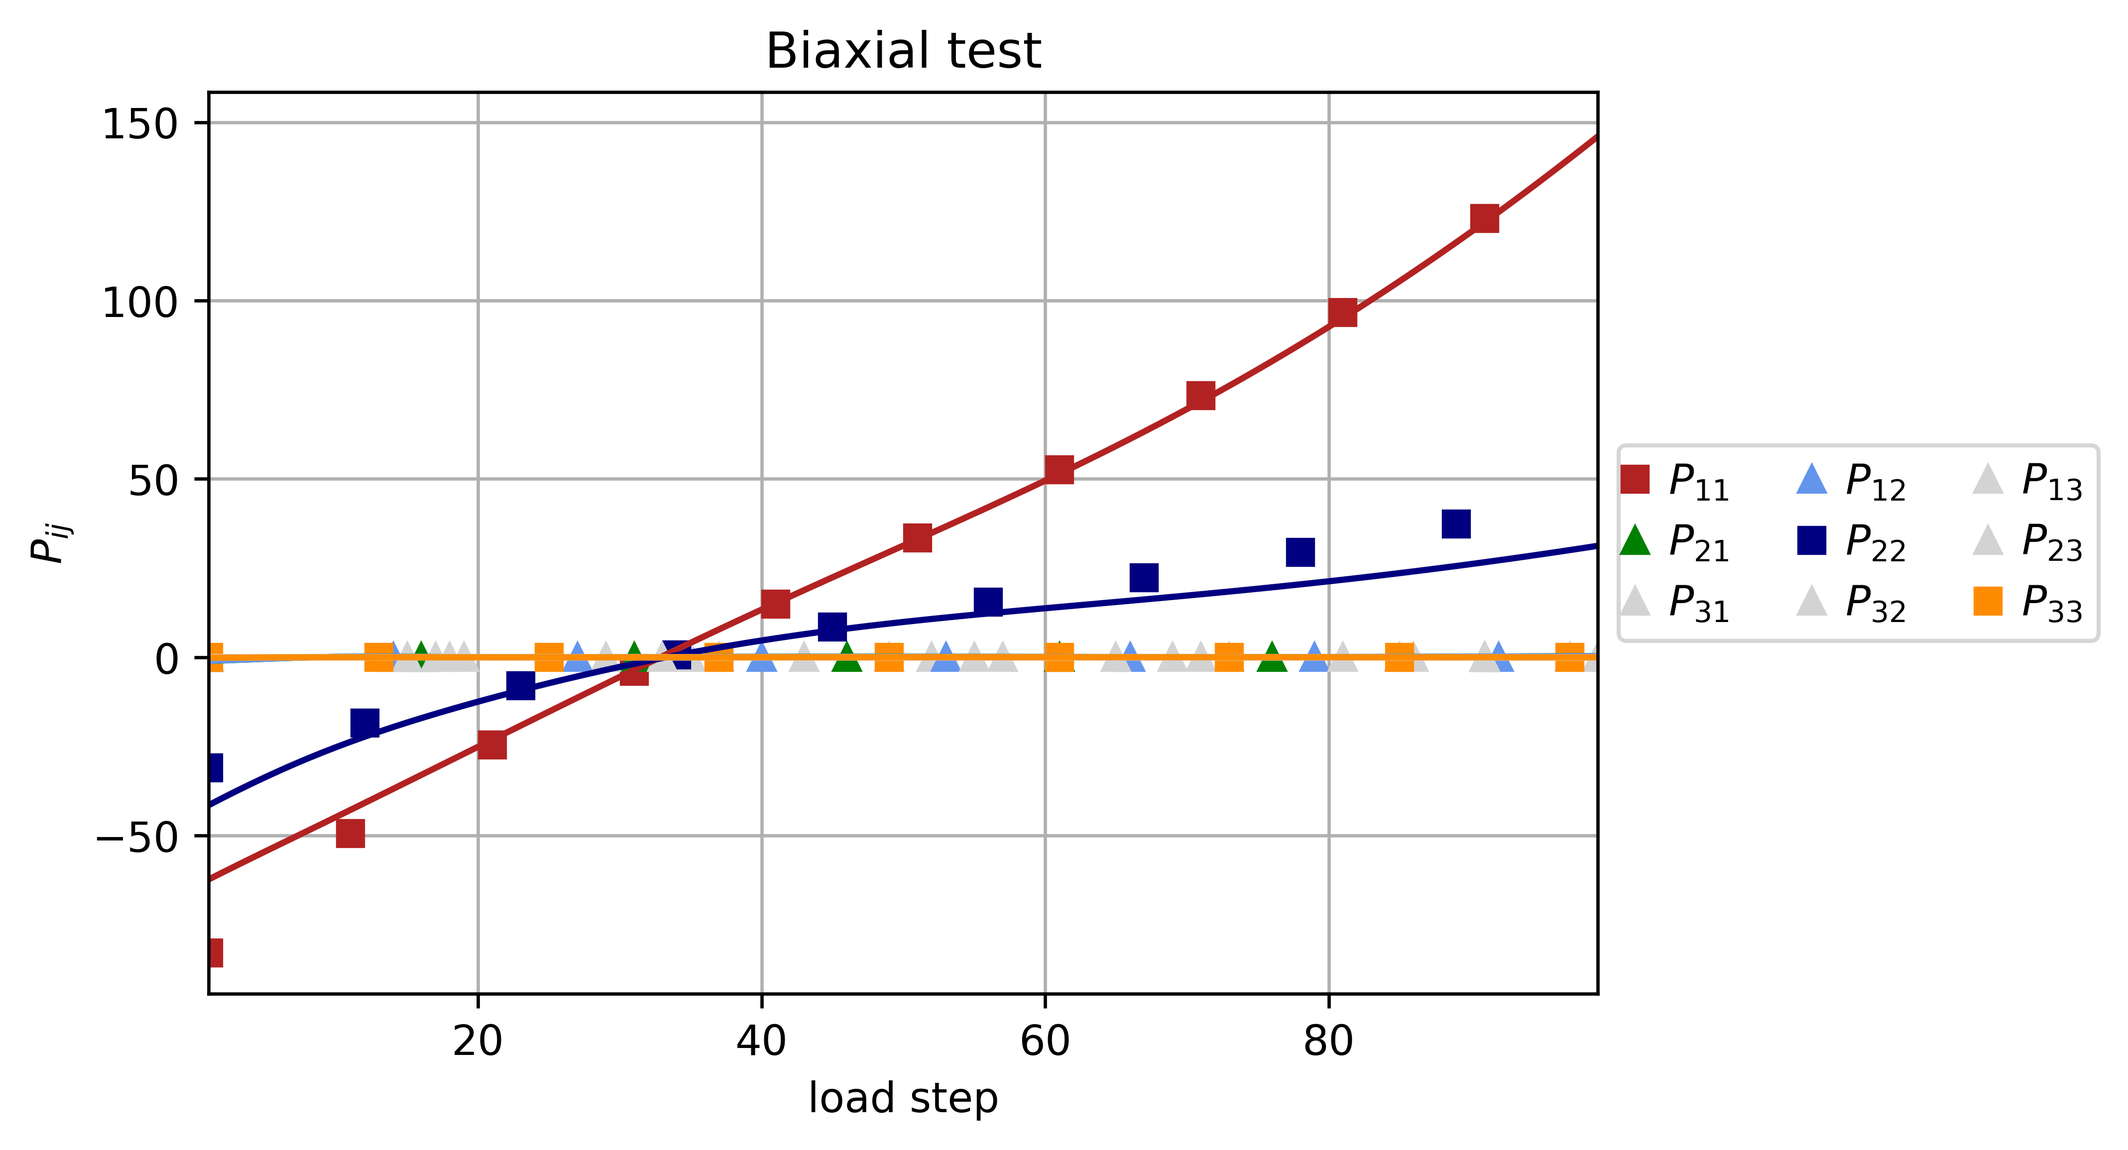
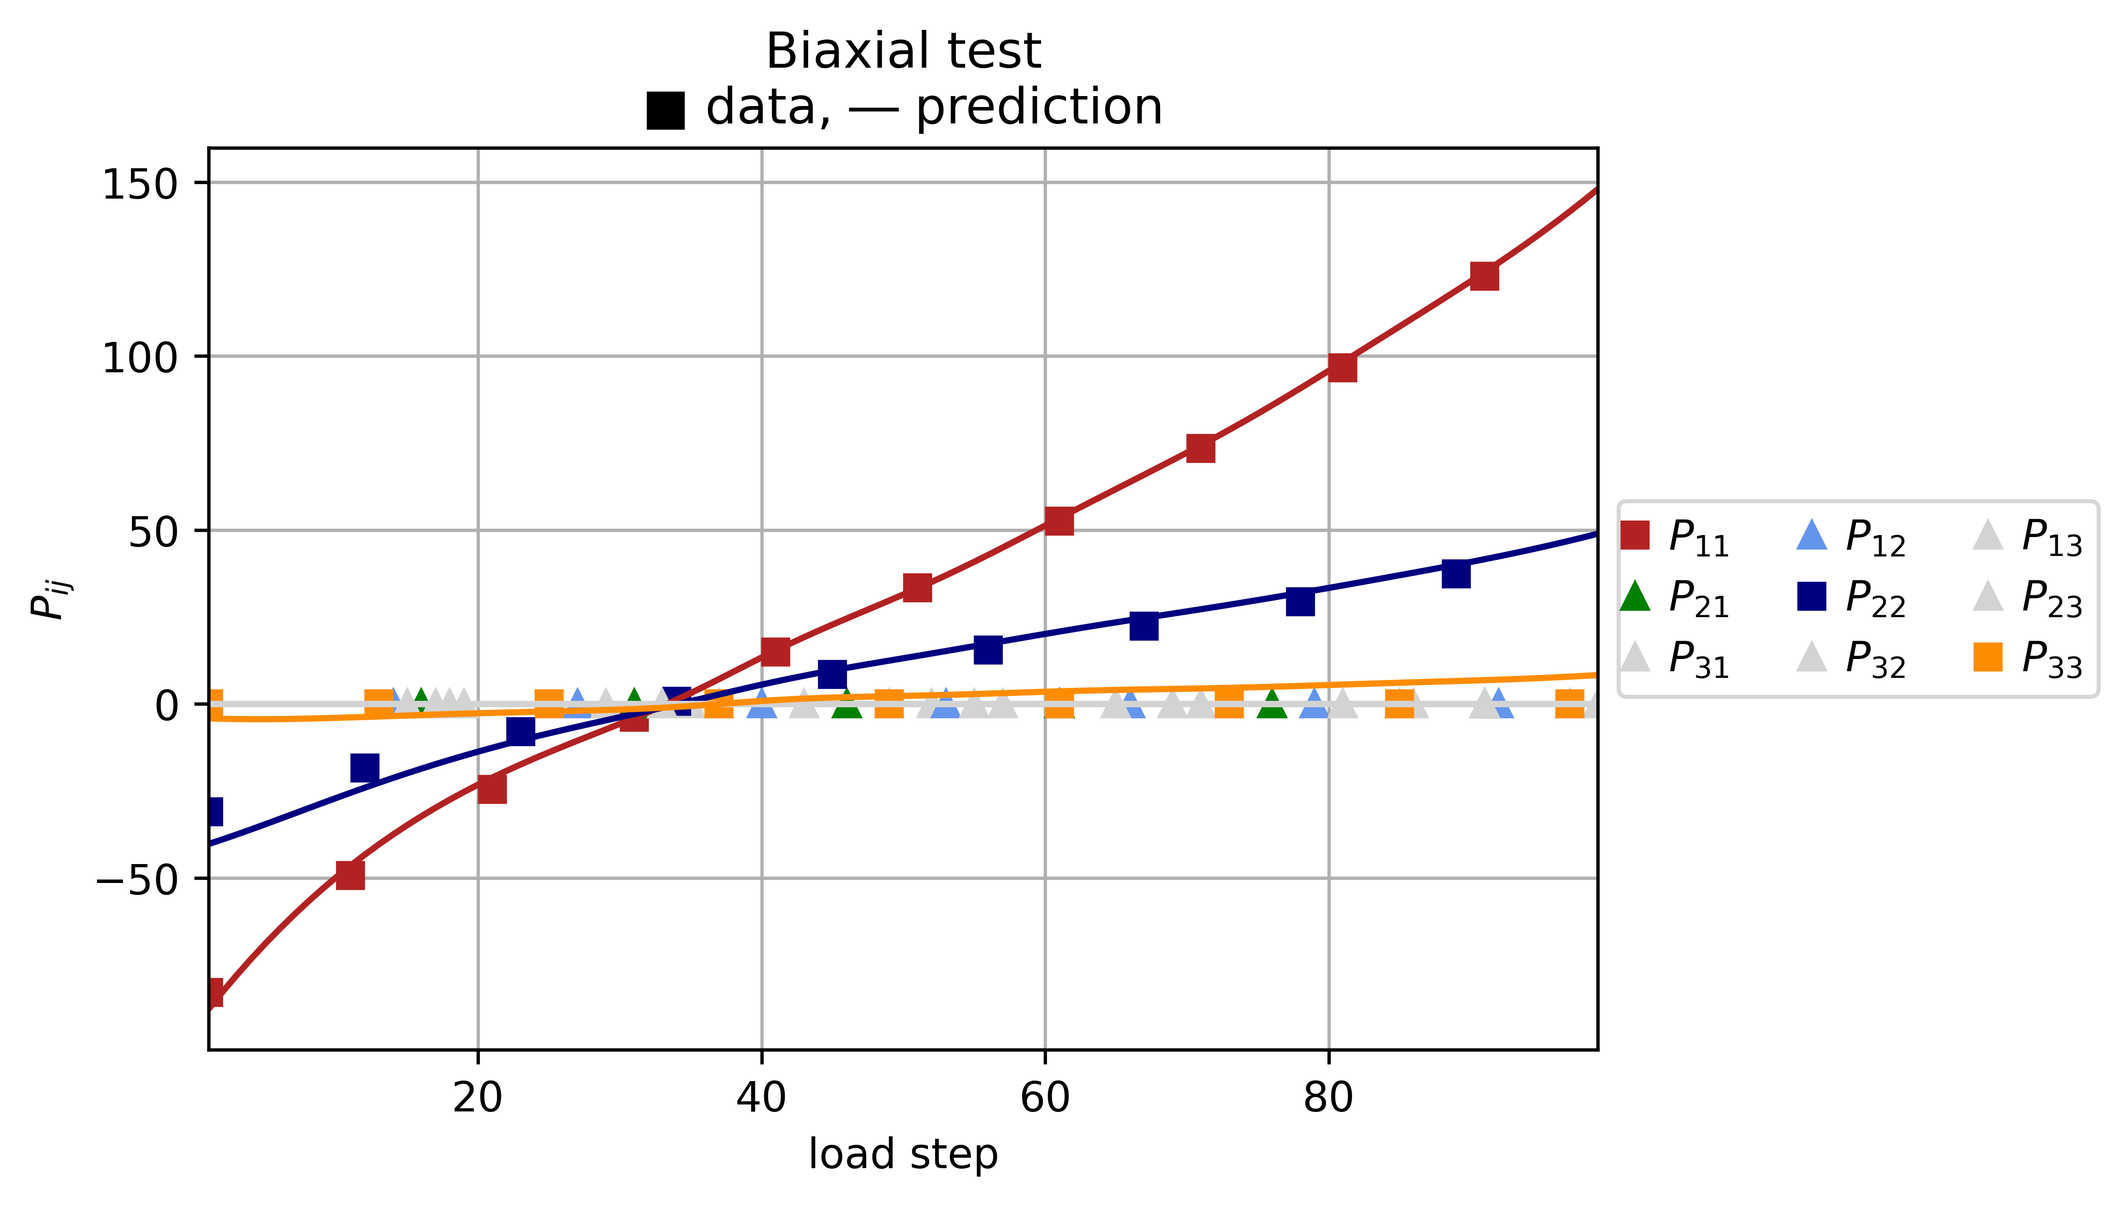
Extended evaluation + Normalization for P training added

diff --git a/Task_02/02_hyperelasticity_I/plots.py b/Task_02/02_hyperelasticity_I/plots.py
@@ -26,13 +26,13 @@ def plot_imported_data(F, P, W):
     # deformation gradient
     fig = plt.figure(dpi=600)
     plt.plot(x, F[:, 0, 0], color='firebrick', marker='s', markevery=10, label=r'$F_{11}$')
-    plt.plot(x, F[:, 1, 0], color='lightgrey', marker='^', markevery=15, label=r'$F_{21}$')
+    plt.plot(x, F[:, 1, 0], color='green', marker='^', markevery=15, label=r'$F_{21}$')
     plt.plot(x, F[:, 2, 0], color='lightgrey', marker='^', markevery=18, label=r'$F_{31}$')
     plt.plot(x, F[:, 0, 1], color='cornflowerblue', marker='^', markevery=13, label=r'$F_{12}$')
     plt.plot(x, F[:, 1, 1], color='navy', marker='s', markevery=11, label=r'$F_{22}$')
-    plt.plot(x, F[:, 1, 2], color='lightgrey', marker='^', markevery=16, label=r'$F_{23}$')
-    plt.plot(x, F[:, 0, 2], color='lightgrey', marker='^', markevery=14, label=r'$F_{13}$')
     plt.plot(x, F[:, 2, 1], color='lightgrey', marker='^', markevery=18, label=r'$F_{32}$')
+    plt.plot(x, F[:, 0, 2], color='lightgrey', marker='^', markevery=14, label=r'$F_{13}$')
+    plt.plot(x, F[:, 1, 2], color='lightgrey', marker='^', markevery=16, label=r'$F_{23}$')
     plt.plot(x, F[:, 2, 2], color='darkorange', marker='s', markevery=12, label=r'$F_{33}$')
     plt.xlabel('load step')
     plt.ylabel(r'$F_{ij}$')
@@ -92,6 +92,7 @@ def plot_invariants(invariants, analytical_invariants):
     plt.plot(x, J_ana, color='navy')
     plt.plot(x, I4_ana, color='darkorange')
     plt.plot(x, I5_ana, color='green')
+    plt.title(u'\u25a0 data, \u2015 analytical')
     plt.xlabel('load step')
     plt.ylabel(r'$I$')
     plt.xlim(np.min(x), np.max(x))
@@ -106,7 +107,7 @@ def plot_potential(W, W_ana):
     # deformation gradient
     fig = plt.figure(dpi=600)
     plt.plot(x, W, color='firebrick', linestyle='None', marker='s', markevery=10, label='data')
-    plt.plot(x, W_ana, color='firebrick', label='prediction')
+    plt.plot(x, W_ana, color='firebrick', label='analytical')
     plt.xlabel('load step')
     plt.ylabel(r'$W$')
     plt.xlim(np.min(x), np.max(x))
@@ -120,44 +121,47 @@ def plot_stress_tensor_analytical(P, P_ana):
 
     # difference
     fig = plt.figure(dpi=600)
-    plt.plot(x, P[:, 0, 0] - P_ana[:, 0, 0], color='firebrick', marker='s', markevery=10, label=r'$P_{11}$')
-    plt.plot(x, P[:, 1, 0] - P_ana[:, 1, 0], color='green', marker='^', markevery=15, label=r'$P_{21}$')
-    plt.plot(x, P[:, 2, 0] - P_ana[:, 2, 0], color='lightgrey', marker='^', markevery=17, label=r'$P_{31}$')
-    plt.plot(x, P[:, 0, 1] - P_ana[:, 0, 1], color='cornflowerblue',marker='^', markevery=13, label=r'$P_{12}$')
-    plt.plot(x, P[:, 1, 1] - P_ana[:, 1, 1], color='navy', marker='s', markevery=11, label=r'$P_{22}$')
-    plt.plot(x, P[:, 2, 1] - P_ana[:, 2, 1], color='lightgrey', marker='^', markevery=18, label=r'$P_{32}$')
-    plt.plot(x, P[:, 0, 2] - P_ana[:, 0, 2], color='lightgrey', marker='^', markevery=14, label=r'$P_{13}$')
-    plt.plot(x, P[:, 1, 2] - P_ana[:, 1, 2], color='lightgrey', marker='^', markevery=16, label=r'$P_{23}$')
-    plt.plot(x, P[:, 2, 2] - P_ana[:, 2, 2], color='darkorange', marker='s', markevery=12, label=r'$P_{33}$')
+    plt.plot(x, P[:, 0, 0] - P_ana[:, 0, 0], color='firebrick', label=r'$P_{11}$')
+    plt.plot(x, P[:, 1, 0] - P_ana[:, 1, 0], color='green', label=r'$P_{21}$')
+    plt.plot(x, P[:, 2, 0] - P_ana[:, 2, 0], color='lightgrey', label=r'$P_{31}$')
+    plt.plot(x, P[:, 0, 1] - P_ana[:, 0, 1], color='cornflowerblue', label=r'$P_{12}$')
+    plt.plot(x, P[:, 1, 1] - P_ana[:, 1, 1], color='navy', label=r'$P_{22}$')
+    plt.plot(x, P[:, 2, 1] - P_ana[:, 2, 1], color='lightgrey', label=r'$P_{32}$')
+    plt.plot(x, P[:, 0, 2] - P_ana[:, 0, 2], color='lightgrey', label=r'$P_{13}$')
+    plt.plot(x, P[:, 1, 2] - P_ana[:, 1, 2], color='lightgrey', label=r'$P_{23}$')
+    plt.plot(x, P[:, 2, 2] - P_ana[:, 2, 2], color='darkorange', label=r'$P_{33}$')
     plt.xlabel('load step')
     plt.ylabel(r'$P_{ij}-P_{ij,analyical}$')
     plt.xlim(np.min(x), np.max(x))
     plt.grid()
-    plt.legend(handlelength=0, loc='center left', bbox_to_anchor=(1, 0.5), ncol=3)
+    leg = plt.legend(handlelength=0.75, loc='center left', bbox_to_anchor=(1, 0.5), ncol=3)
+    for line in leg.get_lines():
+        line.set_linewidth(4.0)
     fig.savefig('images/P_difference.png', dpi=fig.dpi, bbox_inches='tight')
     
     fig = plt.figure(dpi=600)
     # imported data
     plt.plot(x, P[:, 0, 0], color='firebrick', linestyle='None', marker='s', markevery=10, label=r'$P_{11}$')
-    plt.plot(x, P[:, 0, 1], color='cornflowerblue', linestyle='None', marker='s', markevery=13, label=r'$P_{12}$')
-    plt.plot(x, P[:, 0, 2], color='lightgrey', linestyle='None', marker='s', markevery=14, label=r'$P_{13}$')
-    plt.plot(x, P[:, 1, 0], color='green', linestyle='None', marker='s', markevery=15, label=r'$P_{21}$')
+    plt.plot(x, P[:, 1, 0], color='green', linestyle='None', marker='^', markevery=15, label=r'$P_{21}$')
+    plt.plot(x, P[:, 2, 0], color='lightgrey', linestyle='None', marker='^', markevery=17, label=r'$P_{31}$')
+    plt.plot(x, P[:, 0, 1], color='cornflowerblue', linestyle='None', marker='^', markevery=13, label=r'$P_{12}$')
     plt.plot(x, P[:, 1, 1], color='navy', linestyle='None', marker='s', markevery=11, label=r'$P_{22}$')
-    plt.plot(x, P[:, 1, 2], color='lightgrey', linestyle='None', marker='s', markevery=16, label=r'$P_{23}$')
-    plt.plot(x, P[:, 2, 0], color='lightgrey', linestyle='None', marker='s', markevery=17, label=r'$P_{31}$')
-    plt.plot(x, P[:, 2, 1], color='lightgrey', linestyle='None', marker='s', markevery=18, label=r'$P_{32}$')
+    plt.plot(x, P[:, 2, 1], color='lightgrey', linestyle='None', marker='^', markevery=18, label=r'$P_{32}$')
+    plt.plot(x, P[:, 0, 2], color='lightgrey', linestyle='None', marker='^', markevery=14, label=r'$P_{13}$')
+    plt.plot(x, P[:, 1, 2], color='lightgrey', linestyle='None', marker='^', markevery=16, label=r'$P_{23}$')
     plt.plot(x, P[:, 2, 2], color='darkorange', linestyle='None', marker='s', markevery=12, label=r'$P_{33}$')
     
     # analytical data
     plt.plot(x, P_ana[:, 0, 0], color='firebrick')
-    plt.plot(x, P_ana[:, 0, 1], color='cornflowerblue')
-    plt.plot(x, P_ana[:, 0, 2], color='lightgrey')
     plt.plot(x, P_ana[:, 1, 0], color='green')
-    plt.plot(x, P_ana[:, 1, 1], color='navy')
-    plt.plot(x, P_ana[:, 1, 2], color='lightgrey')
     plt.plot(x, P_ana[:, 2, 0], color='lightgrey')
+    plt.plot(x, P_ana[:, 0, 1], color='cornflowerblue')
+    plt.plot(x, P_ana[:, 1, 1], color='navy')
     plt.plot(x, P_ana[:, 2, 1], color='lightgrey')
+    plt.plot(x, P_ana[:, 0, 2], color='lightgrey')
+    plt.plot(x, P_ana[:, 1, 2], color='lightgrey')
     plt.plot(x, P_ana[:, 2, 2], color='darkorange')
+    plt.title(u'\u25a0 data, \u2015 analytical')
     plt.xlabel('load step')
     plt.ylabel(r'$P_{ij}$')
     plt.xlim(np.min(x), np.max(x))
@@ -173,21 +177,23 @@ def plot_stress_tensor_prediction(P, P_pred, title, fname):
 
     # difference
     fig = plt.figure(dpi=600)
-    plt.plot(x, P[:, 0, 0] - P_pred[:, 0, 0], color='firebrick', marker='s', markevery=10, label=r'$P_{11}$')
-    plt.plot(x, P[:, 1, 0] - P_pred[:, 1, 0], color='green', marker='^', markevery=15, label=r'$P_{21}$')
-    plt.plot(x, P[:, 2, 0] - P_pred[:, 2, 0], color='lightgrey', marker='^', markevery=17, label=r'$P_{31}$')
-    plt.plot(x, P[:, 0, 1] - P_pred[:, 0, 1], color='cornflowerblue',marker='^', markevery=13, label=r'$P_{12}$')
-    plt.plot(x, P[:, 1, 1] - P_pred[:, 1, 1], color='navy', marker='s', markevery=11, label=r'$P_{22}$')
-    plt.plot(x, P[:, 2, 1] - P_pred[:, 2, 1], color='lightgrey', marker='^', markevery=18, label=r'$P_{32}$')
-    plt.plot(x, P[:, 0, 2] - P_pred[:, 0, 2], color='lightgrey', marker='^', markevery=14, label=r'$P_{13}$')
-    plt.plot(x, P[:, 1, 2] - P_pred[:, 1, 2], color='lightgrey', marker='^', markevery=16, label=r'$P_{23}$')
-    plt.plot(x, P[:, 2, 2] - P_pred[:, 2, 2], color='darkorange', marker='s', markevery=12, label=r'$P_{33}$')
+    plt.plot(x, P[:, 0, 0] - P_pred[:, 0, 0], color='firebrick', label=r'$P_{11}$')
+    plt.plot(x, P[:, 1, 0] - P_pred[:, 1, 0], color='green', label=r'$P_{21}$')
+    plt.plot(x, P[:, 2, 0] - P_pred[:, 2, 0], color='lightgrey', label=r'$P_{31}$')
+    plt.plot(x, P[:, 0, 1] - P_pred[:, 0, 1], color='cornflowerblue', label=r'$P_{12}$')
+    plt.plot(x, P[:, 1, 1] - P_pred[:, 1, 1], color='navy', label=r'$P_{22}$')
+    plt.plot(x, P[:, 2, 1] - P_pred[:, 2, 1], color='lightgrey', label=r'$P_{32}$')
+    plt.plot(x, P[:, 0, 2] - P_pred[:, 0, 2], color='lightgrey', label=r'$P_{13}$')
+    plt.plot(x, P[:, 1, 2] - P_pred[:, 1, 2], color='lightgrey', label=r'$P_{23}$')
+    plt.plot(x, P[:, 2, 2] - P_pred[:, 2, 2], color='darkorange', label=r'$P_{33}$')
     plt.title(title)
     plt.xlabel('load step')
     plt.ylabel(r'$P_{ij}-P_{ij,prediction}$')
     plt.xlim(np.min(x), np.max(x))
     plt.grid()
-    plt.legend(handlelength=0, loc='center left', bbox_to_anchor=(1, 0.5), ncol=3)
+    leg = plt.legend(handlelength=0.75, loc='center left', bbox_to_anchor=(1, 0.5), ncol=3)
+    for line in leg.get_lines():
+        line.set_linewidth(4.0)
     fig.savefig('images/P_pred_diff_{}.png'.format(fname), dpi=fig.dpi, bbox_inches='tight')
     
     fig = plt.figure(dpi=600)
@@ -202,7 +208,7 @@ def plot_stress_tensor_prediction(P, P_pred, title, fname):
     plt.plot(x, P[:, 1, 2], linestyle='None', color='lightgrey', marker='^', markevery=16, label=r'$P_{23}$')
     plt.plot(x, P[:, 2, 2], linestyle='None', color='darkorange', marker='s', markevery=12, label=r'$P_{33}$')
     
-    # analytical data
+    # predicted data
     plt.plot(x, P_pred[:, 0, 0], color='firebrick')
     plt.plot(x, P_pred[:, 1, 0], color='green')
     plt.plot(x, P_pred[:, 2, 0], color='lightgrey')
@@ -212,7 +218,7 @@ def plot_stress_tensor_prediction(P, P_pred, title, fname):
     plt.plot(x, P_pred[:, 0, 2], color='lightgrey')
     plt.plot(x, P_pred[:, 1, 2], color='lightgrey')
     plt.plot(x, P_pred[:, 2, 2], color='darkorange')
-    plt.title(title)
+    plt.title(u'{}\n\u25a0 data, \u2015 prediction'.format(title))
     plt.xlabel('load step')
     plt.ylabel(r'$P_{ij}$')
     plt.xlim(np.min(x), np.max(x))

diff --git a/Task_02/02_hyperelasticity_I/main_physics_augmented.py b/Task_02/02_hyperelasticity_I/main_physics_augmented.py
@@ -45,13 +45,24 @@ Load calibration data
 """
 
 # select load cases for calibration
+# paths = [
+#     'data/calibration/biaxial.txt',
+#     'data/calibration/pure_shear.txt',
+#     'data/calibration/uniaxial.txt'
+#     ]
+
 paths = [
-    'data/calibration/biaxial.txt',
-    'data/calibration/pure_shear.txt',
-    'data/calibration/uniaxial.txt'
+    'data/calibration/biaxial.txt'
     ]
 
-# xs = F, dys = P, ys = W
+# paths = [
+#     'data/calibration/pure_shear.txt'
+#     ]
+
+# paths = [
+#     'data/calibration/uniaxial.txt'
+#     ]
+
 xs, ys, dys, batch_sizes = ld.load_stress_strain_data(paths)
 
 # %%
@@ -62,7 +73,6 @@ Preprocessing
 
 # apply load weighting strategy
 sw = ld.get_sample_weights(xs, batch_sizes)
-#sw = np.ones(np.sum(batch_sizes))
   
 # reshape inputs
 ys = tf.reshape(ys,-1)
@@ -126,25 +136,34 @@ fnames = [
     'mixed_test'
     ]
 
-
+# evaluate normalization criterion
+ys_I, dys_I = model.predict(np.array([np.identity(3)]))
+print('\nW(I) =\t{}'.format(ys_I[0,0]))
+print('P(I) =\t{}\n\t\t{}\n\t\t{}'.format(dys_I[0,0], dys_I[0,1], dys_I[0,2]))
 
 # evaluate each data set separately
 for i, path in enumerate(paths):
     # reference data
-    #xs, ys, _, [batch_size] = ld.load_stress_strain_data([path])
     xs, ys, dys, [batch_size] = ld.load_stress_strain_data([path])
     
-    # reshape
-    #xs, ys = ld.reshape_input(Cs, Ps)
     
     # predict using the trained model
     ys_pred, dys_pred = model.predict(xs)
     P = dys
     P_pred = dys_pred
-
-    # reshape results from Voigt vector to matrix
-    #P = tf.reshape(dys, [batch_size, 3, 3])
-    #P_pred = tf.reshape(dys_pred, [batch_size, 3, 3]) 
+    
+    # Potential correction - for P training
+    # shift reference value ys by normalization offset predicted value in 
+    # the oppositde direction to ensure reasonable 
+    # results from tensorflow evalutation function
+    ys_eval = ys + ys_I[0,0] 
+    # ys_eval = ys
+    ys_pred = ys_pred - ys_I[0,0]
+    
+    # Evaluate the model on the test data using `evaluate`
+    print("\nEvaluate on test data: {}".format(titles[i]))
+    results = model.evaluate(xs, [ys_eval, dys])
+    
     
     # plot right Chauchy-Green tensor
     Cs = tf.einsum('ikj,ikl->ijl',xs,xs)
@@ -155,37 +174,6 @@ for i, path in enumerate(paths):
     
     # plot stress tensor
     pl.plot_stress_tensor_prediction(P, P_pred, titles[i], fnames[i])
-    
-    # compute and print errors
-    print('''------------------------------------
---- {} ---
-------------------------------------'''.format(path))
-    mse, mae = compute_metrics(tf.transpose(ys), tf.transpose(ys_pred))
-    print('''W:\tMSE = {}, \tMAE = {}\n'''.format(mse, mae))
-    mse, mae = compute_metrics(P[:, 0, 0], P_pred[:, 0, 0])
-    print('''P_11:\tMSE = {}, \tMAE = {}\n'''.format(mse, mae))
-    mse, mae = compute_metrics(P[:, 0, 1], P_pred[:, 0, 1])
-    print('''P_12:\tMSE = {}, \tMAE = {}\n'''.format(mse, mae))
-    mse, mae = compute_metrics(P[:, 0, 2], P_pred[:, 0, 2])
-    print('''P_13:\tMSE = {}, \tMAE = {}\n'''.format(mse, mae))
-    mse, mae = compute_metrics(P[:, 1, 0], P_pred[:, 1, 0])
-    print('''P_21:\tMSE = {}, \tMAE = {}\n'''.format(mse, mae))
-    mse, mae = compute_metrics(P[:, 1, 1], P_pred[:, 1, 1])
-    print('''P_22:\tMSE = {}, \tMAE = {}\n'''.format(mse, mae))
-    mse, mae = compute_metrics(P[:, 1, 2], P_pred[:, 1, 2])
-    print('''P_23:\tMSE = {}, \tMAE = {}\n'''.format(mse, mae))
-    mse, mae = compute_metrics(P[:, 2, 0], P_pred[:, 2, 0])
-    print('''P_31:\tMSE = {}, \tMAE = {}\n'''.format(mse, mae))
-    mse, mae = compute_metrics(P[:, 2, 1], P_pred[:, 2, 1])
-    print('''P_32:\tMSE = {}, \tMAE = {}\n'''.format(mse, mae))
-    mse, mae = compute_metrics(P[:, 2, 2], P_pred[:, 2, 2])
-    print('''P_33:\tMSE = {}, \tMAE = {}\n'''.format(mse, mae))   
-
-# evaluate normalization criterion
-xs_I = np.array(np.identity(3))
-ys_I, dys_I = model.predict(xs)
-#print(ys_I)
-#print(dys_I)
 
 # %% 
 """

diff --git a/Task_02/02_hyperelasticity_I/main_naive.py b/Task_02/02_hyperelasticity_I/main_naive.py
@@ -62,8 +62,8 @@ Preprocessing
 '''
 
 # apply load weighting strategy
-#sw = ld.get_sample_weights(xs, batch_sizes)
-sw = np.ones(np.sum(batch_sizes))
+sw = ld.get_sample_weights(xs, batch_sizes)
+#sw = np.ones(np.sum(batch_sizes))
 
 
 # %%   
@@ -133,6 +133,11 @@ for i, path in enumerate(paths):
     #xs, ys, _, [batch_size] = ld.load_stress_strain_data([path])
     xs, _, ys, [batch_size] = ld.load_stress_strain_data([path])
     
+    # Evaluate the model on the test data using `evaluate`
+    print("\nEvaluate on test data: {}".format(titles[i]))
+    results = model.evaluate(xs, [ys, dys[:batch_size]])
+    #print("test loss", results)
+    
     # predict using the trained model
     ys_pred, _ = model.predict(xs)
     P = ys
@@ -146,29 +151,27 @@ for i, path in enumerate(paths):
     pl.plot_stress_tensor_prediction(P, P_pred, titles[i], fnames[i])
     
     # compute and print errors
-    print('''------------------------------------
---- {} ---
-------------------------------------'''.format(path))
-    mse, mae = compute_metrics(ys, ys_pred)
-    print('''W:\tMSE = {}, \tMAE = {}\n'''.format(mse, mae))
-    mse, mae = compute_metrics(P[:, 0, 0], P_pred[:, 0, 0])
-    print('''P_11:\tMSE = {}, \tMAE = {}\n'''.format(mse, mae))
-    mse, mae = compute_metrics(P[:, 0, 1], P_pred[:, 0, 1])
-    print('''P_12:\tMSE = {}, \tMAE = {}\n'''.format(mse, mae))
-    mse, mae = compute_metrics(P[:, 0, 2], P_pred[:, 0, 2])
-    print('''P_13:\tMSE = {}, \tMAE = {}\n'''.format(mse, mae))
-    mse, mae = compute_metrics(P[:, 1, 0], P_pred[:, 1, 0])
-    print('''P_21:\tMSE = {}, \tMAE = {}\n'''.format(mse, mae))
-    mse, mae = compute_metrics(P[:, 1, 1], P_pred[:, 1, 1])
-    print('''P_22:\tMSE = {}, \tMAE = {}\n'''.format(mse, mae))
-    mse, mae = compute_metrics(P[:, 1, 2], P_pred[:, 1, 2])
-    print('''P_23:\tMSE = {}, \tMAE = {}\n'''.format(mse, mae))
-    mse, mae = compute_metrics(P[:, 2, 0], P_pred[:, 2, 0])
-    print('''P_31:\tMSE = {}, \tMAE = {}\n'''.format(mse, mae))
-    mse, mae = compute_metrics(P[:, 2, 1], P_pred[:, 2, 1])
-    print('''P_32:\tMSE = {}, \tMAE = {}\n'''.format(mse, mae))
-    mse, mae = compute_metrics(P[:, 2, 2], P_pred[:, 2, 2])
-    print('''P_33:\tMSE = {}, \tMAE = {}\n'''.format(mse, mae))   
+#     print('''------------------------------------
+# --- {} ---
+# ------------------------------------'''.format(path))
+#     mse, mae = compute_metrics(P[:, 0, 0], P_pred[:, 0, 0])
+#     print('''P_11:\tMSE = {}, \tMAE = {}\n'''.format(mse, mae))
+#     mse, mae = compute_metrics(P[:, 0, 1], P_pred[:, 0, 1])
+#     print('''P_12:\tMSE = {}, \tMAE = {}\n'''.format(mse, mae))
+#     mse, mae = compute_metrics(P[:, 0, 2], P_pred[:, 0, 2])
+#     print('''P_13:\tMSE = {}, \tMAE = {}\n'''.format(mse, mae))
+#     mse, mae = compute_metrics(P[:, 1, 0], P_pred[:, 1, 0])
+#     print('''P_21:\tMSE = {}, \tMAE = {}\n'''.format(mse, mae))
+#     mse, mae = compute_metrics(P[:, 1, 1], P_pred[:, 1, 1])
+#     print('''P_22:\tMSE = {}, \tMAE = {}\n'''.format(mse, mae))
+#     mse, mae = compute_metrics(P[:, 1, 2], P_pred[:, 1, 2])
+#     print('''P_23:\tMSE = {}, \tMAE = {}\n'''.format(mse, mae))
+#     mse, mae = compute_metrics(P[:, 2, 0], P_pred[:, 2, 0])
+#     print('''P_31:\tMSE = {}, \tMAE = {}\n'''.format(mse, mae))
+#     mse, mae = compute_metrics(P[:, 2, 1], P_pred[:, 2, 1])
+#     print('''P_32:\tMSE = {}, \tMAE = {}\n'''.format(mse, mae))
+#     mse, mae = compute_metrics(P[:, 2, 2], P_pred[:, 2, 2])
+#     print('''P_33:\tMSE = {}, \tMAE = {}\n'''.format(mse, mae))
 
 
 

diff --git a/Task_02/02_hyperelasticity_I/evaluation.py b/Task_02/02_hyperelasticity_I/evaluation.py
@@ -26,7 +26,7 @@ evaluate imported F, P and W data
 '''
 
 # load deformation, stress and energy data
-F, P, W = ld.read_txt('data/calibration/biaxial.txt')
+F, P, W = ld.read_txt('data/test/mixed_test.txt')
 
 plot_imported_data(F, P, W)
 
@@ -36,7 +36,7 @@ evaluate invariants
 '''
 
 # load invariants from data
-arr = np.loadtxt('data/invariants/I_biaxial.txt')
+arr = np.loadtxt('data/invariants/I_mixed_test.txt')
 
 I1 = arr[:, :1]
 J = arr[:, 1:2]

diff --git a/Task_02/02_hyperelasticity_I/models.py b/Task_02/02_hyperelasticity_I/models.py
@@ -156,8 +156,7 @@ class InvariantLayer(layers.Layer):
         
         C_inv = tf.linalg.inv(C)
         I3 = tf.linalg.det(C)
-        #Cof_C = tf.constant(np.array([I3i * C_inv[i,:,:] for i,I3i in enumerate(I3)]))
-        #Cof_C = tf.tensordot(I3, C_inv, axis=0)
+        # catch error if a KerasTensor is passed
         try:
             Cof_C = tf.constant(np.array([I3i * C_inv[i,:,:] for i,I3i in enumerate(I3)]))
         except:
